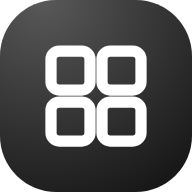
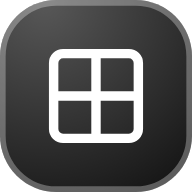
アイコンをアプリ左上のロゴ（黒いツヤの角丸と田の字）と同じ形にする
iPhone 用と Android 用（maskable）は角まで塗った版を分けて用意する。
サービスワーカーの控えの名前を変えて、古いアイコンが残らないようにする。

Claude-Session: https://claude.ai/code/session_019498SmnaJbJyMKiF8d4iCf

Changed region(s): [[0.2188, 0.2188, 0.7812, 0.7812], [0.0, 0.0, 1.0, 1.0]]

diff --git a/kioku/index.html b/kioku/index.html
@@ -10,7 +10,7 @@
     <meta name="apple-mobile-web-app-title" content="KIOKU" />
     <link rel="manifest" href="./manifest.webmanifest" />
     <link rel="icon" href="./icon.svg" type="image/svg+xml" />
-    <link rel="apple-touch-icon" href="./icon-192.png" />
+    <link rel="apple-touch-icon" href="./apple-touch-icon.png" />
     <title>KIOKU</title>
   </head>
   <body>

diff --git a/kioku/public/sw.js b/kioku/public/sw.js
@@ -1,5 +1,5 @@
 // 通信がなくても開けるようにする（開いたものを端末に残す）
-const CACHE = 'kioku-v1';
+const CACHE = 'kioku-v2';
 
 self.addEventListener('install', (e) => {
   e.waitUntil(caches.open(CACHE).then((c) => c.addAll(['./', './index.html', './manifest.webmanifest', './icon.svg'])).then(() => self.skipWaiting()));
